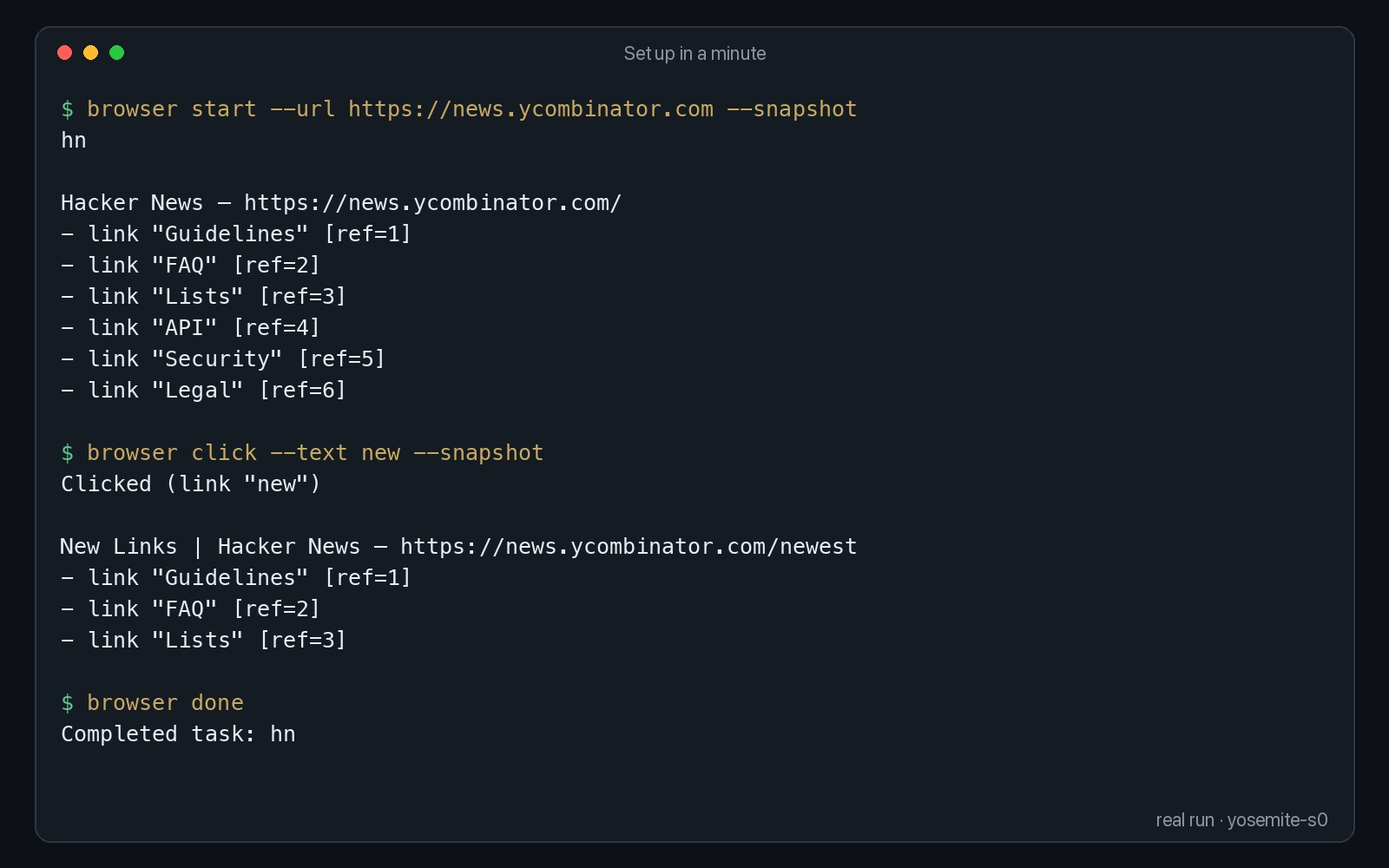
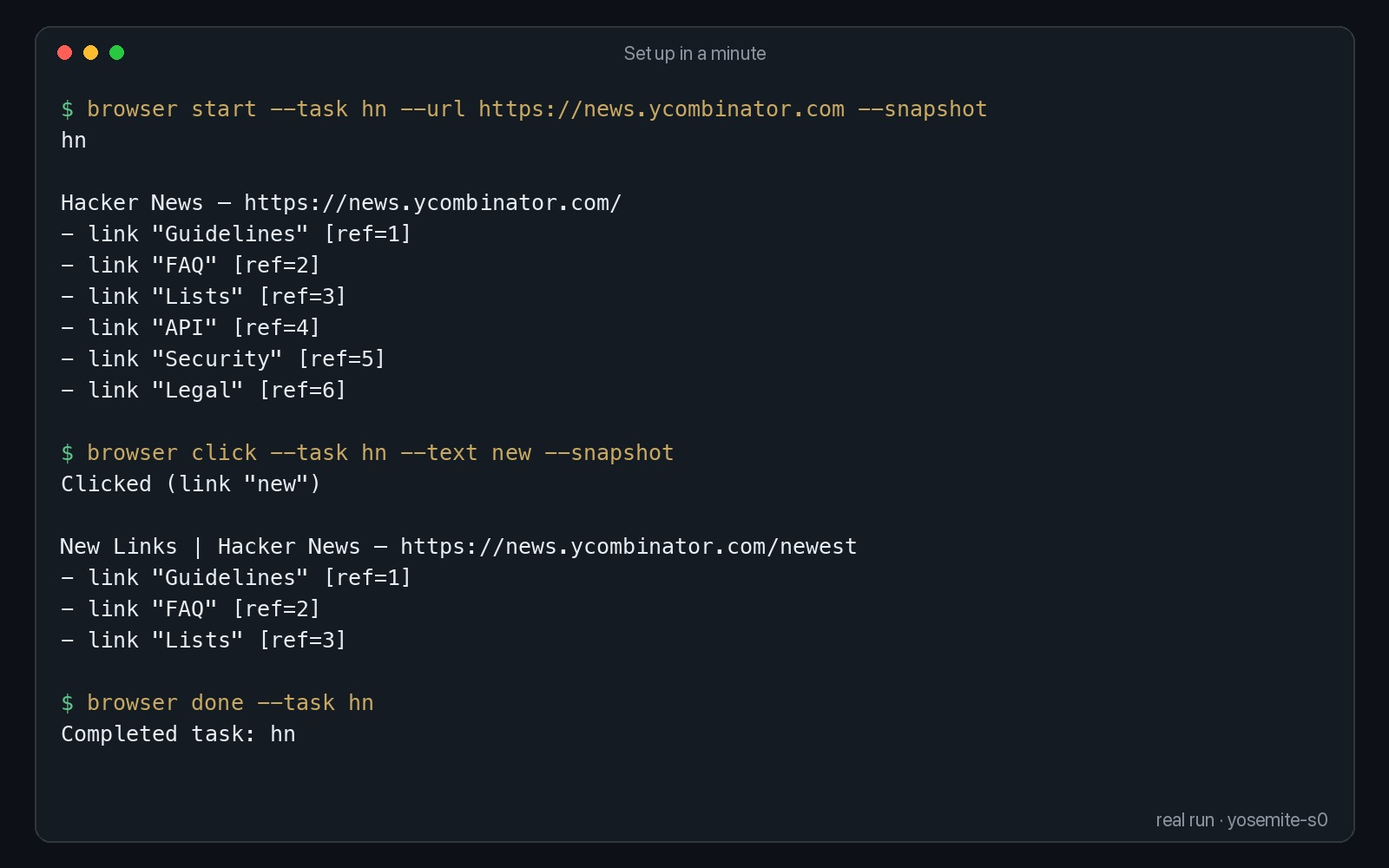
docs: every claim checked against main 0.2.7, with an FAQ and the setup clip's real commands
- Remote browsers: --device forwards the whole command to browser-cli on the
  other machine (src/commands/browser.ts:224-256), so the "Chromium only;
  Firefox and Arc run locally" line is gone; the relay and the hub default are named.
- "Nothing leaves your machine" becomes "No telemetry", since --device uses SSH
  and the relay HTTPS (SECURITY.md).
- integration.md: action records go to the fd and the ledger both
  (src/runtime/events.ts:89-91); the dotted-key compatibility note is restored.
- troubleshooting.md: only a pinned or attach-only profile listens on a
  debugging port (src/browser/chrome.ts:319,333); launches hide navigator.webdriver.
- Fill forms page lists the commands the recorded run used; Figma headline,
  check-on-a-phone (load after set device), profiles list output match the code.
- Set-up clip re-rendered from its saved run output with --task hn shown, the
  flag that produced the "hn" it prints.
- README: an FAQ linking the Q&A discussions and an "Also in the box" line for
  console, errors, requests --format har, responsebody, evaluate, upload, stream.
- Negative phrasing reworded into what to do instead, with no new capability claimed.

diff --git a/README.md b/README.md
@@ -9,7 +9,7 @@ Chrome, Arc, Brave, Edge, Comet or Firefox, on this machine or another one over 
 [![CI](https://img.shields.io/github/actions/workflow/status/phnx-labs/browser-cli/test.yml?branch=main&style=flat-square&label=tests&labelColor=0d1117)](https://github.com/phnx-labs/browser-cli/actions/workflows/test.yml)
 [![License](https://img.shields.io/badge/license-Apache--2.0-555?style=flat-square&labelColor=0d1117)](LICENSE)
 
-[Install](#install) · [Features](#features) · [Remote browsers](#remote-browsers) · [Benchmark](#benchmark) · [How it compares](#how-it-compares) · [Docs](#docs)
+[Install](#install) · [Features](#features) · [Remote browsers](#remote-browsers) · [Benchmark](#benchmark) · [How it compares](#how-it-compares) · [FAQ](#faq) · [Docs](#docs)
 
 [phoenix.so/browser-cli](https://phoenix.so/browser-cli?ref=github) · [Why we open-sourced it](https://phoenix.so/blog/browser-cli?ref=github)
 
@@ -87,7 +87,7 @@ Install the CLI and its skill, create a profile for the browser you already use,
 
 </td>
 <td width="50%">
-  <a href="docs/use-cases/set-up-in-a-minute.md"><picture><source srcset="docs/assets/readme-features/set-up-in-a-minute.webp" type="image/webp"><img src="docs/assets/readme-features/set-up-in-a-minute.poster.jpg" alt="A terminal creates a Brave profile, makes it the default, opens Hacker News with its elements listed and clicks "new"" width="100%" /></picture></a>
+  <a href="docs/use-cases/set-up-in-a-minute.md"><picture><source srcset="docs/assets/readme-features/set-up-in-a-minute.webp" type="image/webp"><img src="docs/assets/readme-features/set-up-in-a-minute.poster.jpg" alt="A terminal creates a Brave profile, makes it the default, opens Hacker News with its elements listed and clicks &quot;new&quot;" width="100%" /></picture></a>
 </td>
 </tr>
 <tr>
@@ -165,7 +165,7 @@ Recordings, PDFs and screenshots are saved per task, and `browser sessions` list
 
 ### Fill forms and check out
 
-Type into fields by their label, pick options and click by name. Each action waits for the page to settle, so steps chain.
+Type into fields by their label, pick options and click by name. In Chromium-family browsers each action waits for the page to settle, so steps chain.
 
 [Docs →](docs/use-cases/fill-forms-and-check-out.md)
 
@@ -218,7 +218,9 @@ In canvas apps the agent works the way a person does: shortcuts, clicks at a pos
 </tr>
 </table>
 
-Each clip is a real run recorded with browser-cli, sped up; the page for each shows the task, the commands and what came back.
+Each clip is a real run, sped up. Its page shows the task, the commands and what came back.
+
+**Also in the box:** `console` and `errors` read a tab's logs, `requests --format har` and `responsebody` read its network traffic, `evaluate` runs JavaScript in the page, `upload` fills file inputs and drop targets, and `stream` keeps one process open for many commands. Every command is in the [reference](docs/command-index.md).
 
 ## Remote browsers
 
@@ -229,7 +231,7 @@ browser start --device box --profile work    # box is a Host in ~/.ssh/config
 browser navigate https://example.com         # later commands follow the task there
 ```
 
-Chromium-family browsers only; Firefox and Arc run on the local machine. More in [Remote browsers](docs/guide/remote.md).
+One kept-alive SSH connection carries the task. More in [Remote browsers](docs/guide/remote.md).
 
 ## Benchmark
 
@@ -241,7 +243,7 @@ Four browser tools on eight web tasks, Claude Sonnet 5.5 in Claude Code, 2 runs 
 </picture>
 
 - **Fastest and cheapest:** browser-cli 0.2.3 took 17.1 s and $0.047 per task, against 19.7 s and $0.058 for Browser Use and 20.4 s and $0.050 for browser-harness.
-- **Fewest turns and tokens:** browser-harness, at 5.6 turns and 82k tokens per task; browser-cli took 5.9 and 89k.
+- **Close on turns and tokens:** browser-cli took 5.9 turns and 89k tokens per task; browser-harness took the fewest, 5.6 and 82k.
 - **Every tool answered all 16 runs correctly.**
 
 <picture>
@@ -265,17 +267,29 @@ Method, per-task results and the run records: [Benchmarks](docs/benchmarks/READM
 | [Playwright MCP](https://github.com/microsoft/playwright-mcp) | A tab group per client (extension) | CDP URL or Playwright server | Through the extension |
 | [Chrome DevTools MCP](https://github.com/ChromeDevTools/chrome-devtools-mcp) | Any session can close any page | Any CDP URL | After an Allow dialog, Chrome 144+ |
 | [Claude in Chrome](https://code.claude.com/docs/en/chrome) | [A tab group per session](https://code.claude.com/docs/en/chrome) | Not documented | [Yes, through the extension](https://code.claude.com/docs/en/chrome) |
-| [Playwriter](https://playwriter.dev) | [Tabs shared across sessions](https://playwriter.dev/docs/sessions) | [`playwriter serve` over a LAN or tunnel](https://playwriter.dev/docs/remote-access) | [Yes, through the extension](https://playwriter.dev/docs/installation) |
+| [Playwriter](https://playwriter.dev) | [Tabs shared across sessions](https://playwriter.dev/docs/sessions) | [`playwriter serve` over a LAN or tunnel](https://playwriter.dev/docs/remote-access) | [Yes, through the extension](https://playwriter.dev) |
 
 Read from each tool's own docs and code on 2026-11-07. The source for every cell is in [docs/comparison.md](docs/comparison.md).
 
 ## Security and privacy
 
-- **An agent with `browser` acts as you.** It can read and click anything your signed-in profile can. Give it a dedicated profile when it should not see your personal accounts. There is no URL allowlist yet.
-- **Nothing leaves your machine.** No telemetry. The one exception: the first recording on a machine without ffmpeg installs it.
+- **An agent with `browser` acts as you.** It can read and click anything your signed-in profile can. Give it a dedicated profile, signed in only to the sites it needs, when it should not see your personal accounts.
+- **No telemetry.** `browser` talks only to the browsers and machines you point it at. The one exception: the first recording on a machine without ffmpeg installs it.
 - **Remote control is off by default.** Another machine can drive this browser only after `browser remote-control on`.
 
 Details: [SECURITY.md](SECURITY.md).
+
+## FAQ
+
+- [Why a CLI instead of an MCP server, or plain Playwright?](https://github.com/phnx-labs/browser-cli/discussions/56)
+- [How many tokens does browsing cost?](https://github.com/phnx-labs/browser-cli/discussions/57)
+- [Can a web page trick my agent?](https://github.com/phnx-labs/browser-cli/discussions/55)
+- [Will sites block it, or show CAPTCHAs?](https://github.com/phnx-labs/browser-cli/discussions/40)
+- [Does it handle iframes, date pickers, dialogs and canvas apps?](https://github.com/phnx-labs/browser-cli/discussions/61)
+- [Does it work headless, in CI or in Docker?](https://github.com/phnx-labs/browser-cli/discussions/43)
+- [Is it free?](https://github.com/phnx-labs/browser-cli/discussions/33) Yes: Apache-2.0, no account, and it runs on your machine.
+
+Every question: [Discussions → Q&A](https://github.com/phnx-labs/browser-cli/discussions/categories/q-a). Ideas and what you built are welcome there too.
 
 ## Docs
 

diff --git a/docs/comparison.md b/docs/comparison.md
@@ -11,9 +11,9 @@ Read on 2026-11-07.
 | <img src="assets/logos/agent-browser.png" width="16" height="16" alt="agent-browser logo"> agent-browser | separate browser per `--session`; in one shared Chrome, opt-in `--pin-tab` ([sessions](https://github.com/vercel-labs/agent-browser/blob/d44f6989bf5e9a9a1c6dd6d97175f8c33b138eca/docs/content/docs/sessions.mdx?plain=1#L73-L84)) | any `ws(s)://` CDP URL ([cdp-mode](https://github.com/vercel-labs/agent-browser/blob/d44f6989bf5e9a9a1c6dd6d97175f8c33b138eca/docs/content/docs/cdp-mode.mdx?plain=1#L25-L34)) | copies your profile, or attaches ([sessions](https://github.com/vercel-labs/agent-browser/blob/d44f6989bf5e9a9a1c6dd6d97175f8c33b138eca/docs/content/docs/sessions.mdx?plain=1#L88)) |
 | <img src="assets/logos/browserbase.png" width="16" height="16" alt="Browserbase logo"> Browserbase `browse` | separate browser per `--session` ([README](https://github.com/browserbase/stagehand/blob/310957518a931c1a84c5968b13282cc30acd1be9/packages/cli/README.md?plain=1#L48)) | any CDP URL ([README](https://github.com/browserbase/stagehand/blob/310957518a931c1a84c5968b13282cc30acd1be9/packages/cli/README.md?plain=1#L62)) | `--auto-connect` to local Chrome ([README](https://github.com/browserbase/stagehand/blob/310957518a931c1a84c5968b13282cc30acd1be9/packages/cli/README.md?plain=1#L61)) |
 | <img src="assets/logos/playwright.svg" width="16" height="16" alt="Playwright logo"> Playwright CLI | separate browser per `-s` session ([sessions](https://github.com/microsoft/playwright-cli/blob/4bc00fb7fa5b4329f2fb53ac4743a066c2c664e8/skills/playwright-cli/references/session-management.md?plain=1#L22-L30)) | any CDP URL or Playwright server ([README](https://github.com/microsoft/playwright-cli/blob/4bc00fb7fa5b4329f2fb53ac4743a066c2c664e8/README.md?plain=1#L488-L505)) | attach after Chrome's toggle, or the extension ([sessions](https://github.com/microsoft/playwright-cli/blob/4bc00fb7fa5b4329f2fb53ac4743a066c2c664e8/skills/playwright-cli/references/session-management.md?plain=1#L116)) |
-| <img src="assets/logos/playwright.svg" width="16" height="16" alt="Playwright logo"> Playwright MCP | extension: a tab group per client ([extension](https://github.com/microsoft/playwright/blob/07c7069cdbb1f5c7331d3f4d2abd864dcfde745a/packages/extension/README.md?plain=1#L41-L43)) | any CDP URL or Playwright server ([README](https://github.com/microsoft/playwright-mcp/blob/404be8eb89abecff77a55152b6d843d140c78372/README.md?plain=1#L416-L417)) | through the extension ([extension](https://github.com/microsoft/playwright/blob/07c7069cdbb1f5c7331d3f4d2abd864dcfde745a/packages/extension/README.md?plain=1#L5)) |
+| <img src="assets/logos/playwright.svg" width="16" height="16" alt="Playwright logo"> Playwright MCP | extension: a tab group per client ([extension](https://github.com/microsoft/playwright/blob/07c7069cdbb1f5c7331d3f4d2abd864dcfde745a/packages/extension/README.md?plain=1#L41-L43)) | any CDP URL or Playwright server ([README](https://github.com/microsoft/playwright-mcp/blob/404be8eb89abecff77a55152b6d843d140c78372/README.md?plain=1#L416-L417), [config](https://github.com/microsoft/playwright-mcp/blob/404be8eb89abecff77a55152b6d843d140c78372/README.md?plain=1#L612-L619)) | through the extension ([extension](https://github.com/microsoft/playwright/blob/07c7069cdbb1f5c7331d3f4d2abd864dcfde745a/packages/extension/README.md?plain=1#L5)) |
 | <img src="assets/logos/chrome-devtools.png" width="16" height="16" alt="Chrome DevTools logo"> Chrome DevTools MCP | page IDs per session, but any session can close any page ([McpContext.ts](https://github.com/ChromeDevTools/chrome-devtools-mcp/blob/0b37364dc0a88a804c6d73d3335e776adc7f33c4/src/McpContext.ts#L606-L613)) | any CDP URL ([configuration](https://github.com/ChromeDevTools/chrome-devtools-mcp/blob/0b37364dc0a88a804c6d73d3335e776adc7f33c4/docs/configuration.md?plain=1#L72-L81)) | `--autoConnect` after an Allow dialog, Chrome 144+ ([configuration](https://github.com/ChromeDevTools/chrome-devtools-mcp/blob/0b37364dc0a88a804c6d73d3335e776adc7f33c4/docs/configuration.md?plain=1#L67-L68)) |
 | <img src="assets/logos/claude.svg" width="16" height="16" alt="Claude logo"> Claude in Chrome | a tab group per session ([docs](https://code.claude.com/docs/en/chrome)) | not documented | yes, through the extension ([docs](https://code.claude.com/docs/en/chrome)) |
-| <img src="assets/logos/playwriter.png" width="16" height="16" alt="Playwriter logo"> Playwriter | tab groups are cosmetic; tabs are shared across sessions ([sessions](https://github.com/remorses/playwriter/blob/2cae912a9c1e68ae2b74fcaef9efd79b6d7d432f/website/src/pages/docs/sessions.mdx?plain=1#L46-L48)) | `playwriter serve` over a LAN or tunnel ([README](https://github.com/remorses/playwriter/blob/2cae912a9c1e68ae2b74fcaef9efd79b6d7d432f/README.md?plain=1#L345-L363)) | yes, extension with no dialog ([README](https://github.com/remorses/playwriter/blob/2cae912a9c1e68ae2b74fcaef9efd79b6d7d432f/README.md?plain=1#L299)) |
+| <img src="assets/logos/playwriter.png" width="16" height="16" alt="Playwriter logo"> Playwriter | a tab group per session, but every session sees every tab ([sessions](https://github.com/remorses/playwriter/blob/2cae912a9c1e68ae2b74fcaef9efd79b6d7d432f/website/src/pages/docs/sessions.mdx?plain=1#L46-L48), [tab groups](https://github.com/remorses/playwriter/blob/2cae912a9c1e68ae2b74fcaef9efd79b6d7d432f/website/src/pages/docs/sessions.mdx?plain=1#L79-L81)) | `playwriter serve` over a LAN or tunnel ([README](https://github.com/remorses/playwriter/blob/2cae912a9c1e68ae2b74fcaef9efd79b6d7d432f/README.md?plain=1#L345-L363)) | yes, extension with no dialog ([README](https://github.com/remorses/playwriter/blob/2cae912a9c1e68ae2b74fcaef9efd79b6d7d432f/README.md?plain=1#L299)) |
 
-Others reach further elsewhere: agent-browser also drives Safari and the iOS Simulator and has five cloud providers built in; Playwright drives Firefox and WebKit; Playwriter and Browserbase have their own clouds.
+Others reach further elsewhere: agent-browser also drives Mobile Safari in the iOS Simulator and has five cloud providers built in ([README](https://github.com/vercel-labs/agent-browser/blob/d44f6989bf5e9a9a1c6dd6d97175f8c33b138eca/README.md?plain=1#L54)); Playwright drives Firefox and WebKit; Playwriter and Browserbase have their own clouds.

diff --git a/docs/guide/troubleshooting.md b/docs/guide/troubleshooting.md
@@ -6,12 +6,12 @@
 | Linux | arm64, x64 |
 | Windows | x64 |
 
-Chromium CDP, Firefox BiDi and SSH endpoints work on all three. Native Arc control is macOS-only. Safari is not supported.
+Chromium CDP, Firefox BiDi and SSH endpoints work on all three. Arc is driven natively on macOS.
 
 - **Headless on Linux.** A headless Chromium or Brave needs the usual shared libraries (fonts, `libnss3`, `libatk`, `libgbm` and others). Install your distribution's chromium package to pull them in; a missing library shows up as the browser process exiting right after `start`.
 - **Chromium from snap.** Snap confinement can stop it from writing a profile under `~/.agents`, and it exits at launch with `SingletonLock: Permission denied`. Use a Chromium-family browser installed another way, or point a `custom` profile at it with `--binary`.
-- **"No usable sandbox" in a container.** Chromium's sandbox needs user namespaces, which Docker's default seccomp profile blocks, so Chromium exits at launch. Run the container with `--security-opt seccomp=unconfined` (or a seccomp profile that allows `clone` with `CLONE_NEWUSER`), or run on a host or VM. browser-cli does not pass `--no-sandbox` for you.
-- **Port already in use.** Each profile binds a debugging port. If `start` reports a taken port, another browser or a stale process holds it: stop it, or create the profile with a different `--endpoint`.
+- **"No usable sandbox" in a container.** Chromium's sandbox needs user namespaces, which Docker's default seccomp profile blocks, so Chromium exits at launch. Run the container with `--security-opt seccomp=unconfined` (or a seccomp profile that allows `clone` with `CLONE_NEWUSER`), or run on a host or VM. browser-cli keeps Chromium's sandbox on.
+- **Port already in use.** A profile that launches its own browser talks to it over a private pipe, so only a profile pinned to a `--user-data-dir` (an attach-only or Comet profile) listens on its debugging port. If `start` reports another browser on that port, `browser profiles doctor <name>` names its pid and data folder: close it and relaunch the browser with the profile's `--user-data-dir`, or create the profile with a different `--endpoint`.
 - **Comet and Arc.** Comet is driven as a Chromium-family browser over CDP and works best as an attach-only profile against a browser you already launched. Arc is always attach-only and macOS-only. Its tasks open in an Arc window of their own; `screenshot` captures that window through the Computer helper (`computer setup`) without bringing Arc forward.
-- **Sites that check for bots.** A headless profile names itself `HeadlessChrome` in its user agent, which some sites check. Use a normal, visible profile for those sites. browser-cli does not solve CAPTCHAs; solve one in the window and the agent carries on.
+- **Sites that check for bots.** browser-cli launches Chromium without the `navigator.webdriver` flag that bot checks read. A headless profile still names itself `HeadlessChrome` in its user agent, so use a visible profile for sites that check it. When a site shows a CAPTCHA, solve it in the window and the agent carries on.
 - **Service state.** `browser status` shows whether the service is running and lists active tasks. `browser stop --service` shuts the service down; `browser stop --task <name>` closes one task.

diff --git a/docs/guide/profiles.md b/docs/guide/profiles.md
@@ -3,7 +3,7 @@
 A **profile** names a browser, where it runs, and how to reach it. Profiles are stored in `~/.agents/browser/profiles/<machine>.yaml`, or `~/.agents/browser/local/profiles.yaml` for ones only this machine sees.
 
 ```sh
-browser profiles create work --browser chrome            # local Chrome, a free debugging port
+browser profiles create work --browser chrome            # local Chrome, port picked for you
 browser profiles create hl --browser chromium --headless # headless Chromium
 browser profiles list
 browser use work                                         # the profile a bare `browser start` uses
@@ -11,11 +11,11 @@ browser profiles logins                                  # signed-in sites and a
 browser profiles logins --json
 ```
 
-- **Firefox** profiles are not created with `profiles create`. browser-cli reads Firefox's own `profiles.ini` and lists each profile in `browser profiles list`, ready to use.
-- **Comet and Arc** attach to the browser you already have open and signed in. Create a Comet profile with `--attach-only`; Arc profiles always attach, one per Arc Space.
+- **Firefox** profiles need no `profiles create`: browser-cli reads Firefox's own `profiles.ini` and lists each profile in `browser profiles list`, ready to use.
+- **Comet and Arc** profiles use the stores you are already signed into. On macOS every Arc Space is listed as a profile (`arc-home`, `arc-work`) that attaches to the running Arc. Comet's own profiles are listed the same way (`comet-work`): they attach to a running Comet with remote debugging, or launch Comet on its own store. `browser profiles create agents-comet --browser comet --attach-only` adds one that only attaches.
 - **Separate profiles keep logins apart.** Each profile has its own cookies, so an agent working in `work` cannot reach what you are signed into in `personal`.
 
-`logins` reads each profile's cookie store where its browser keeps it and reports which supported sites (Google, GitHub, LinkedIn, X and Reddit) have a live session. It checks that session cookies exist and never decrypts them. A store it cannot read here (a profile declared on another device, a browser reached over `ssh://`, Firefox, a profile never launched on this machine) is listed as `(not read: <reason>)`, and in `--json` as one `{"profile", "service": null, "account": null, "unread"}` row.
+`logins` reads each profile's cookie store where its browser keeps it and reports which supported sites (Google, GitHub, LinkedIn, X and Reddit) have a live session, with the account name from the browser's saved logins. It checks that session cookies exist and never decrypts them. A profile with no rows had its store read and has no live session. A store it cannot read here (a profile declared on another device, a browser reached over `ssh://`, Firefox, a profile never launched on this machine) is listed as `(not read: <reason>)`, and in `--json` as one `{"profile", "service": null, "account": null, "unread"}` row.
 
 Each profile resolves to an endpoint, shown in `browser profiles list`:
 

diff --git a/docs/guide/driving-a-page.md b/docs/guide/driving-a-page.md
@@ -23,10 +23,10 @@ browser navigate https://shop.example/p/1 && browser click --text "Add to cart" 
 - **`--snapshot`** on `start`, `navigate`, `click`, `type`, `select` and `press` prints the new URL, title and refs in the same call, numbered as `browser refs` would number them.
 - **Settling.** In Chromium-family browsers each action returns once the page has settled: a navigation it started is waited for, up to 3 seconds, and a navigation also waits up to 1.5 s for the requests that draw the page after its load. So known steps chain with `&&`, each seeing the page the last one led to. `--no-wait` returns as the action lands. On Firefox and Arc commands return as the action lands.
 - **Dialogs.** An `alert()` or leave-page prompt is accepted and printed. A `confirm()` or `prompt()` waits: the action that raised it prints the question, and `browser dialog accept|dismiss` answers it.
-- **iframes.** In Chromium-family browsers, `refs` lists elements inside same-site and cross-site iframes under an `- iframe "<url>"` line, and `click`, `type`, `hover` and `select` act on them; `text` reads them too. One level of frames below the page is covered. `upload` into a cross-site iframe is refused with the frame's URL.
+- **iframes.** In Chromium-family browsers, `refs` lists elements inside same-site and cross-site iframes under an `- iframe "<url>"` line, and `click`, `type`, `hover` and `select` act on them; `text` reads them too. One level of frames below the page is covered. To upload into a cross-site iframe, `navigate` to the frame's URL, which `upload` prints, and upload there.
 - **Off-screen elements** are scrolled into view before a click or hover.
 - **Pages without usable refs** (canvas apps, custom widgets): take a `screenshot` and click by position with `click --at X,Y`.
-- **Files.** `browser upload -r <ref> -f /path/to/file` fills a file input or drop zone; `--trigger <ref>` answers the file chooser a button opens. `browser download --path <dir>` and `browser waitdownload` save a download.
+- **Files.** `browser upload -r <ref> -f /path/to/file` fills a file input or drop zone; `--trigger <ref>` answers the file chooser a button opens. `browser download --path <dir>` sets where the task's downloads land (the profile's downloads folder by default), and `browser waitdownload` waits for one to finish.
 - **Testing a page.** `browser console`, `browser errors`, `browser requests` (`--format har` for a HAR file) and `browser responsebody <url-pattern>` read what the page logged, threw and fetched. `browser set device "iPhone 14"` and `browser set viewport <w> <h>` emulate a screen.
 - **Many steps in one process.** `browser stream` reads NDJSON requests on stdin and keeps one connection to the service open.
 

diff --git a/docs/guide/history-and-logs.md b/docs/guide/history-and-logs.md
@@ -2,7 +2,7 @@
 
 `browser sessions` opens a searchable task and capture picker in a terminal. Use arrows to move, Enter to browse or open a capture, and Escape to go back. `--no-interactive` prints the listing; `--json` prints the profile and capture records. Add `--tasks` for task rows, including tasks without captures, or `--search <text>` to filter those rows.
 
-The same filters apply to the picker, the printed listing and `--json`: `--since <when>` and `--until <when>` take `2h`, `7d`, `4w`, `1mo`, `1y` or an ISO date and keep rows by last activity; an invalid value exits 2. `--limit <n>` caps the printed listing (default 50); `--json` is unbounded unless `--limit` is given. The count footer goes to stderr, so piped stdout carries rows only.
+The same filters apply to the picker, the printed listing and `--json`: `--since <when>` and `--until <when>` take `2h`, `7d`, `4w`, `1mo`, `1y` or an ISO date and keep task rows by last activity and captures by capture time; an invalid value exits 2. `--limit <n>` caps the printed listing (default 50); `--json` is unbounded unless `--limit` is given. The count footer goes to stderr, so piped stdout carries rows only.
 
 ```sh
 browser sessions --since 7d
@@ -16,7 +16,7 @@ Task summaries are kept for 365 days in `~/.agents/browser/data/history.db`. Cap
 Logs are JSON lines with a `ts` field, read with `tail` and `jq`:
 
 - **`logs/actions/<UTC day>.jsonl`:** one record per request the CLI sends (command, task, profile, `ok`, `error`, `ms`), kept 30 days.
-- **`logs/daemon.jsonl`:** launches, closes, navigations, screenshots, cleanup results, lost connections and save failures. A repeated failure is written once, then at its 10th, 100th and 1000th occurrence with `count`, and starts over after ten quiet minutes. At start the service rolls a file over 10 MB to `.1`, keeping three.
+- **`logs/daemon.jsonl`:** launches, closes, navigations, screenshots, cleanup results, lost connections and save failures. A repeated failure is written once, then at its 10th, 100th, 1000th occurrence and so on with `count`, and starts over after ten quiet minutes. At start the service rolls a `daemon.jsonl` over 10 MB to `.1`, keeping three.
 - **`logs/browser-service.log`:** only what the service prints to stderr, such as a crash.
 
 URLs are logged without credentials, query or fragment, which can carry tokens; a `data:` or `javascript:` URL is logged as its scheme alone.

diff --git a/docs/use-cases/fill-forms-and-check-out.md b/docs/use-cases/fill-forms-and-check-out.md
@@ -2,23 +2,27 @@
 
 <p align="center"><img src="../assets/readme-features/fill-forms-and-check-out.webp" alt="An agent logs in to Sauce Demo, sorts by price, adds the two cheapest items and completes the order" width="100%"></p>
 
-Type into fields by their label, pick options and click by name. Each action returns once the page has settled, so steps chain in one shell call.
+Type into fields by their label, pick options and click by name or by the number `--snapshot` lists. Each action returns once the page has settled, so steps chain in one shell call.
 
 The task: log in to Sauce Demo, add the two cheapest items to the cart, check out as Ada Lovelace and report the totals. Commands from the run:
 
 ```sh
 browser type "Username" standard_user
 browser type "Password" secret_sauce
-browser click --text "Login"
-browser select "Sort" "Price (low to high)" --snapshot
-browser text --css ".inventory_item_price"
-browser click 12 && browser click 14
-browser type 7 Ada && browser type 8 Lovelace && browser type 9 94107
-browser click 3 --snapshot
-browser text --grep "Item total|Total"
+browser click 1 --snapshot                            # Login
+browser select 1 "Price (low to high)" --snapshot
+browser click 12
+browser click 14                                      # the two cheapest
+browser click 2 --snapshot                            # cart, then Checkout
+browser type 7 Ada
+browser type 8 Lovelace
+browser type 9 94107
+browser click 3 --snapshot                            # Continue
+browser text --grep "Item total|Tax|Total"
+browser click 2                                       # Finish
 ```
 
-Its answer: item total $17.98, total $19.42 with tax, and the site showed "Thank you for your order!".
+Its answer: item total $17.98 (Onesie $7.99 and Bike Light $9.99), total $19.42 with $1.44 tax, and the site showed "Thank you for your order!".
 
 - `browser dialog accept|dismiss` answers a `confirm()` or `prompt()`; `browser upload -r <ref> -f <file>` fills a file input.
 - To type a password without the agent seeing it, `browser type "Password" --secret <bundle>/<KEY>` reads it from the `secrets` CLI. A bundle named after a site (`stripe.com`) types only into that site.

diff --git a/docs/use-cases/design-in-figma.md b/docs/use-cases/design-in-figma.md
@@ -2,20 +2,24 @@
 
 <p align="center"><img src="../assets/readme-features/design-in-figma.webp" alt="An agent builds an Apple-style mobile landing page in Figma: a black iPhone frame, a white headline, a gray subheading and a blue pill button" width="100%"></p>
 
-Canvas apps have few clickable elements to list, so the agent works the way a person does: keyboard shortcuts, clicks at a position, and the properties panel by label.
+In a canvas app the agent works the way a person does: keyboard shortcuts, clicks at a position, and the properties panel by label.
 
-The task, in a browser signed in to Figma: build a one-screen mobile landing page inspired by Apple, with a black iPhone frame, a white headline "browser-cli", a gray subheading and a blue pill-shaped "Get started" button. A sample of the 63 turns:
+The task, in a browser signed in to Figma: build a one-screen mobile landing page inspired by Apple, with a black iPhone frame, a white headline "Browser CLI", a gray subheading and a blue pill-shaped "Get started" button. A sample of the 63 turns:
 
 ```sh
 browser click --at 700,300            # the canvas
 browser press f                       # frame tool
-browser type "Width" 393 --clear && browser press Enter
-browser type "Height" 852 --clear && browser press Enter
-browser type "Color" 000000 --clear && browser press Enter
+browser type "Width" 393 --clear
+browser press Enter
+browser type "Height" 852 --clear
+browser press Enter
+browser type "Color" 000000 --clear
+browser press Enter
 browser screenshot -o shots/s5.png    # check the result
 ```
 
-- `screenshot` lets the agent check each step; `click --at X,Y` takes viewport coordinates from that screenshot.
+- `screenshot` lets the agent check each step, and `click --at X,Y` clicks at a point in the viewport.
+- For steps a panel does not expose as a field, `browser evaluate --file <script>` runs a short script in the page. This run used small scripts to pick a field and insert text.
 - Fields in a properties panel can be named by their label (`"Width"`, `"Color"`), as in a form.
 - The run took 63 turns; the clip is shown at 8x. Account details in the clip are blurred.
 

diff --git a/docs/guide/remote.md b/docs/guide/remote.md
@@ -8,7 +8,8 @@ browser navigate https://example.com         # later commands follow the task th
 browser screenshot -o shot.png               # copied back to this machine
 ```
 
-- **Turn it on first, on the other machine.** Remote control is off by default. Install browser-cli there and run `browser remote-control on`; until then, commands from another machine are refused. `browser remote-control off` turns it off again.
-- `--device <alias>` resolves against `~/.ssh/config`, or against the context Agents CLI hands over when it runs `browser`. browser-cli itself does not read a fleet registry. `--device local` forces the task onto this machine.
+- **Turn it on first, on the other machine.** Install browser-cli there and run `browser remote-control on`. The setting starts off, stays on that machine and is never synced; `browser remote-control off` turns it off again.
+- `--device <alias>` resolves against `~/.ssh/config`, or against the context Agents CLI hands over when it runs `browser`. When Agents CLI has set a browser hub (`defaultBrowserDevice`), `start` goes there by default; `--device local` keeps the task on this machine.
 - The device is bound once, at `start`; later page commands run where the task lives, so `--device` is only valid on `start`.
-- One kept-alive SSH connection carries the session. Remote control works with Chromium-family browsers; Firefox and Arc run on the local machine only.
+- Each command runs in browser-cli on the other machine, so any profile that machine offers works there. One SSH connection carries them and stays open for 30 idle minutes.
+- A caller that cannot reach the machine over SSH, such as a cloud sandbox, sets `BROWSER_RELAY_URL` and `BROWSER_RELAY_TOKEN`, and commands and their screenshots travel over HTTPS instead.

diff --git a/docs/use-cases/README.md b/docs/use-cases/README.md
@@ -2,13 +2,13 @@
 
 Each page shows a real run: the task, the commands the agent ran, and what came back.
 
-- [Set up in a minute](set-up-in-a-minute.md)
-- [Keep work and personal apart](work-and-personal-profiles.md)
-- [Research papers and sources](research.md)
-- [Check a page on a phone](check-on-a-phone.md)
-- [Download files](download-files.md)
-- [Keep proof of what it did](keep-proof.md)
-- [Fill forms and check out](fill-forms-and-check-out.md)
-- [Use the sites you are signed into](signed-in-sites.md)
-- [Several agents, one browser](several-agents.md)
-- [Design in Figma](design-in-figma.md)
+- [Set up in a minute](set-up-in-a-minute.md): install, create a profile and list a page's clickable elements
+- [Keep work and personal apart](work-and-personal-profiles.md): each profile keeps its own logins
+- [Research papers and sources](research.md): pull the numbers out of a long paper in a few lines
+- [Check a page on a phone](check-on-a-phone.md): emulate an iPhone or iPad and screenshot the layout
+- [Download files](download-files.md): wait for the file on disk and get its path back
+- [Keep proof of what it did](keep-proof.md): recordings, PDFs and screenshots saved per task
+- [Fill forms and check out](fill-forms-and-check-out.md): type by label, pick options and click by name
+- [Use the sites you are signed into](signed-in-sites.md): work in tools that have no API or MCP server
+- [Several agents, one browser](several-agents.md): each task owns its tabs
+- [Design in Figma](design-in-figma.md): shortcuts, clicks at a position and the properties panel

diff --git a/bench/README.md b/bench/README.md
@@ -2,9 +2,9 @@
 
 Reruns the 2026-11-07 [benchmarks](../docs/benchmarks/README.md): eight graded web tasks and the several-agents test, for browser-cli and the three other tools in the README's chart.
 
-The [2026-10-19 runs](../docs/benchmarks/archive-2026-10-19.md) were measured with an earlier script that is not in this repository. This one follows the same method, with its task prompts written down in [`tasks.json`](tasks.json), so its numbers compare with each other, not with those runs.
+It follows the method of the [2026-10-19 runs](../docs/benchmarks/archive-2026-10-19.md), with every task prompt written down in [`tasks.json`](tasks.json). Those runs used an earlier script, so compare numbers within one date, not across dates.
 
-It needs Linux, Bun, uv (it installs Python 3.12 for the Python tools), Node with npm and npx, and a signed-in `claude`. It runs the four tools in the README's chart; Browserbase `browse` and Browser Use Bench v2.1 are not in it, and its tool versions are the ones `bench/setup.sh` pins.
+It needs Linux, Bun, uv (it installs Python 3.12 for the Python tools), Node with npm and npx, and a signed-in `claude`. It runs the four tools in the README's chart at the versions `bench/setup.sh` pins (`BROWSER_USE_VERSION`, `BROWSER_HARNESS_VERSION`, `AGENT_BROWSER_VERSION` and `CHROME_VERSION` override them).
 
 ```bash
 bash bench/setup.sh                    # installs dependencies, builds browser-cli into dist/, installs the other tools and Chrome for Testing into bench/.work, runs `check`

diff --git a/docs/benchmarks/README.md b/docs/benchmarks/README.md
@@ -63,11 +63,10 @@ Three Claude Code agents at once in one browser (books, pizza, saucedemo), each 
 | Browser Use 0.13.14 | 6/6 | 4/6 | 30, 38 |
 | agent-browser 0.41.2 | 6/6 | 6/6 | 64, 44 |
 
-browser-harness and Browser Use showed other agents' tabs through `list_tabs()`, agent-browser through `tab` and `snapshot`, with each agent on its own `--session`. browser-cli was the slowest of the four here: its saucedemo agent took 80 and 86 s at 6 turns, against 20 s alone, and its pizza agent 54 and 55 s against 14 s. The records hold per-agent seconds and turns, not where the time went.
+browser-harness and Browser Use showed other agents' tabs mostly through `list_tabs()`, agent-browser through `tab` and `snapshot`, with each agent on its own `--session`. browser-cli kept each agent to its own tabs in 4 to 6 turns, about what each task takes alone. Its trials took longer in wall time: the saucedemo agent took 80 and 86 s at 6 turns, against 20 s alone, and the pizza agent 54 and 55 s against 14 s. The records hold per-agent seconds and turns, not where the time went.
 
 ## How it compares
 
 The comparison of browser-cli with other tools comes from reading each tool's own docs and source, not from runs: [How it compares](../comparison.md), with a source link in every cell, pinned to the commit read on 2026-11-07 (Claude in Chrome's docs are live pages, quoted as of that day).
-
 
 Earlier runs, from 2026-10-19, used a script that is not in this repository: [archive](archive-2026-10-19.md).
